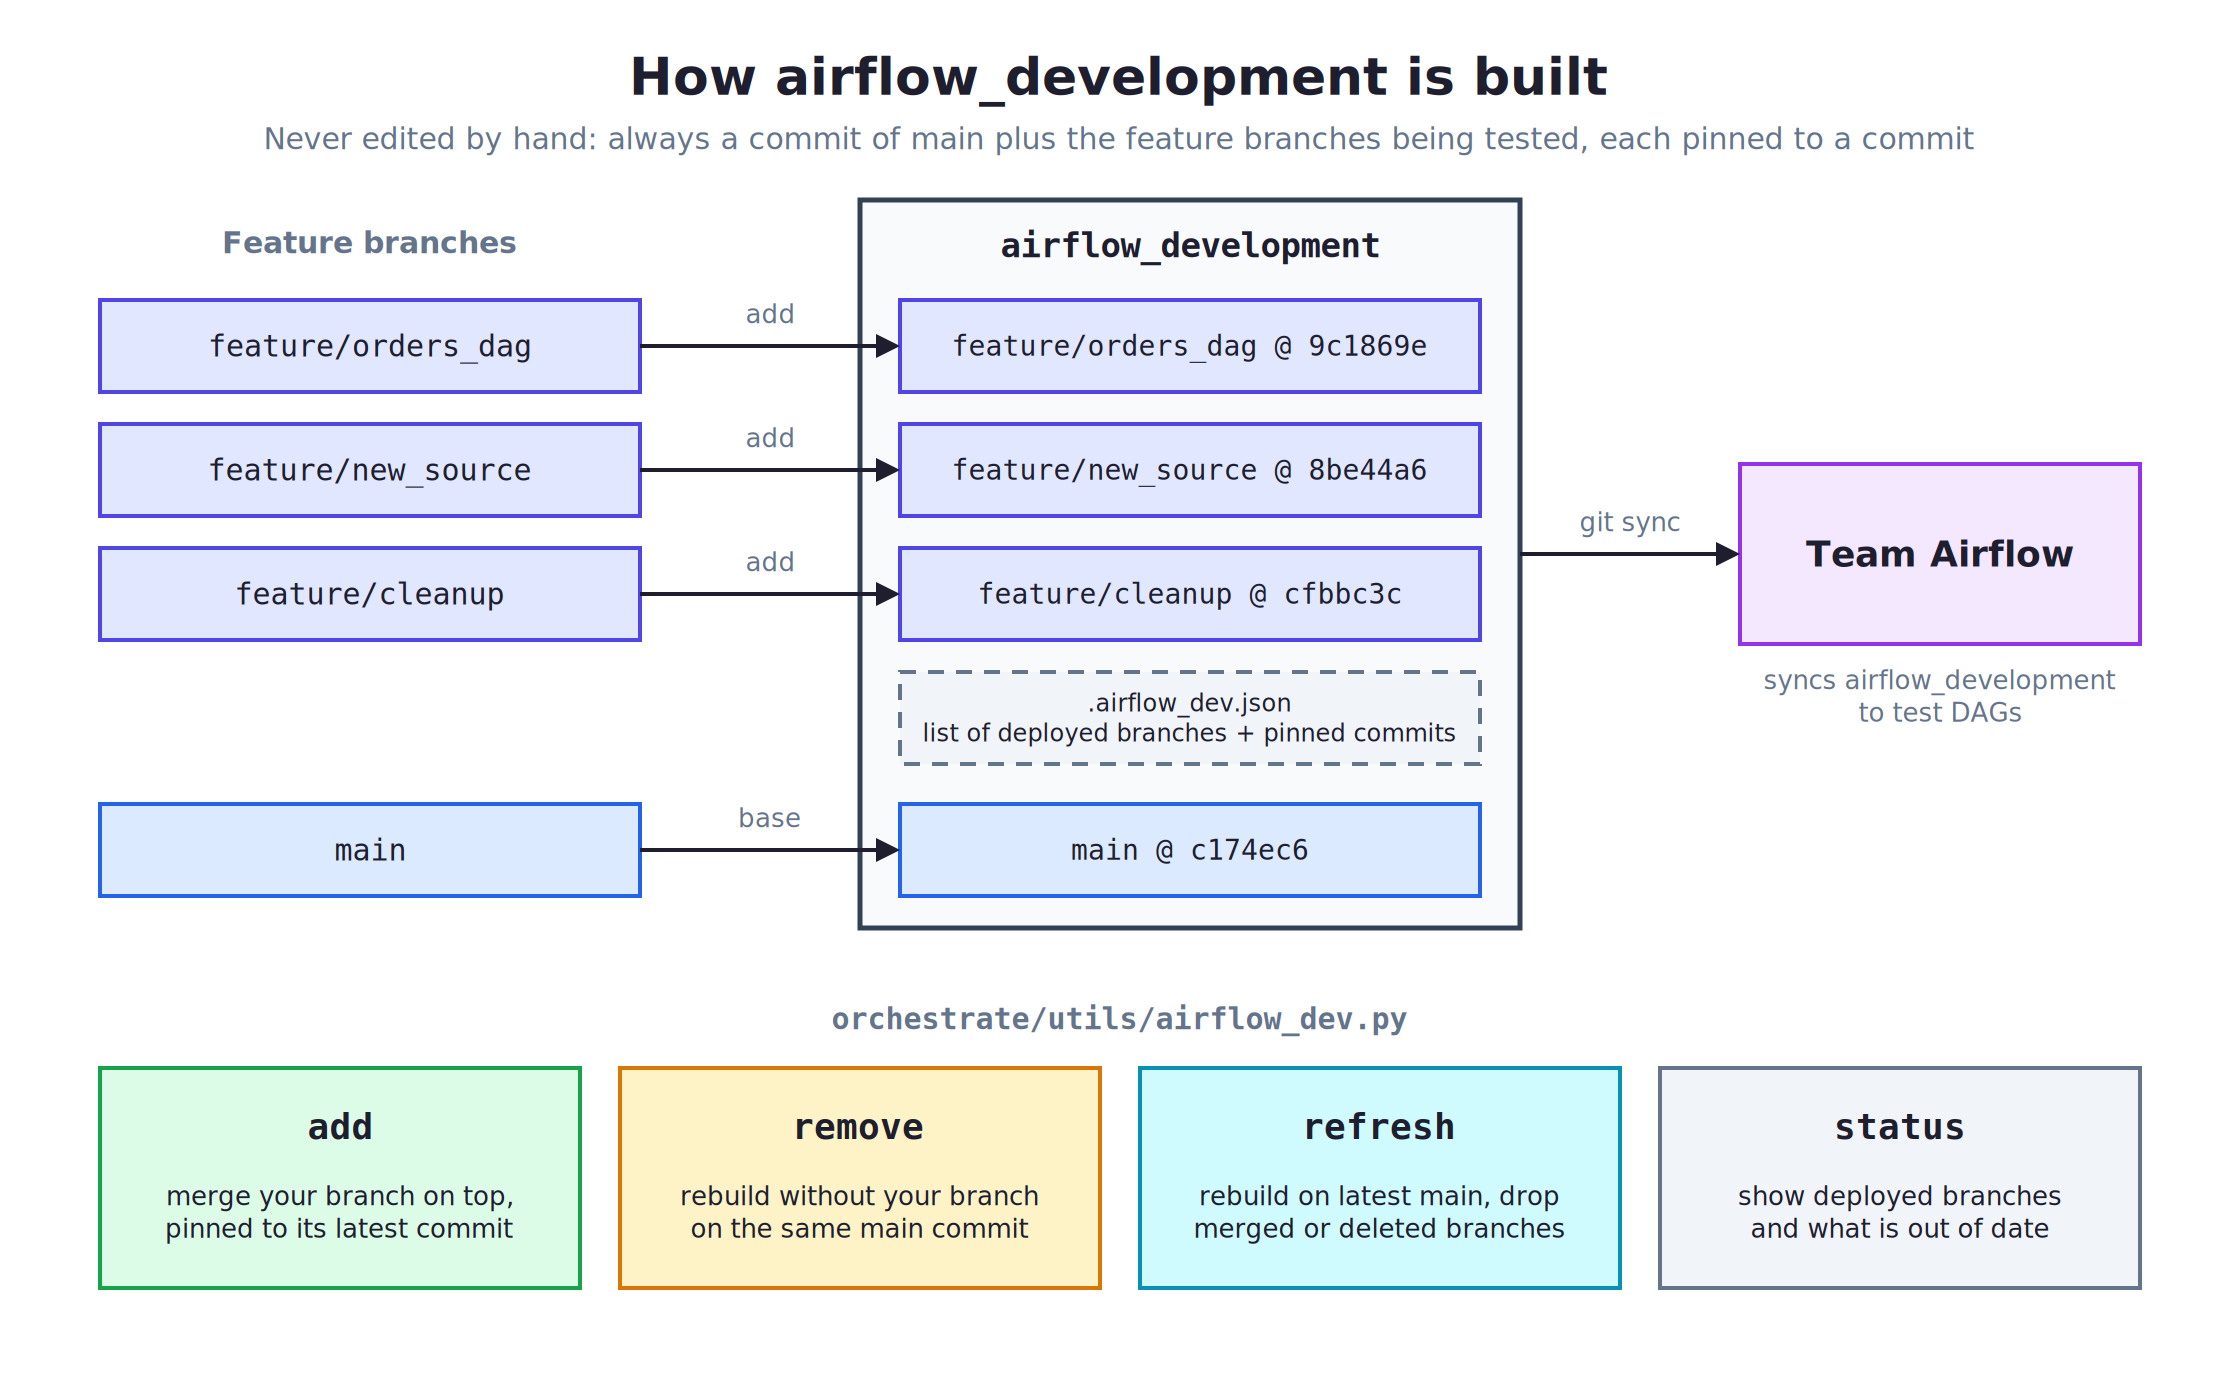
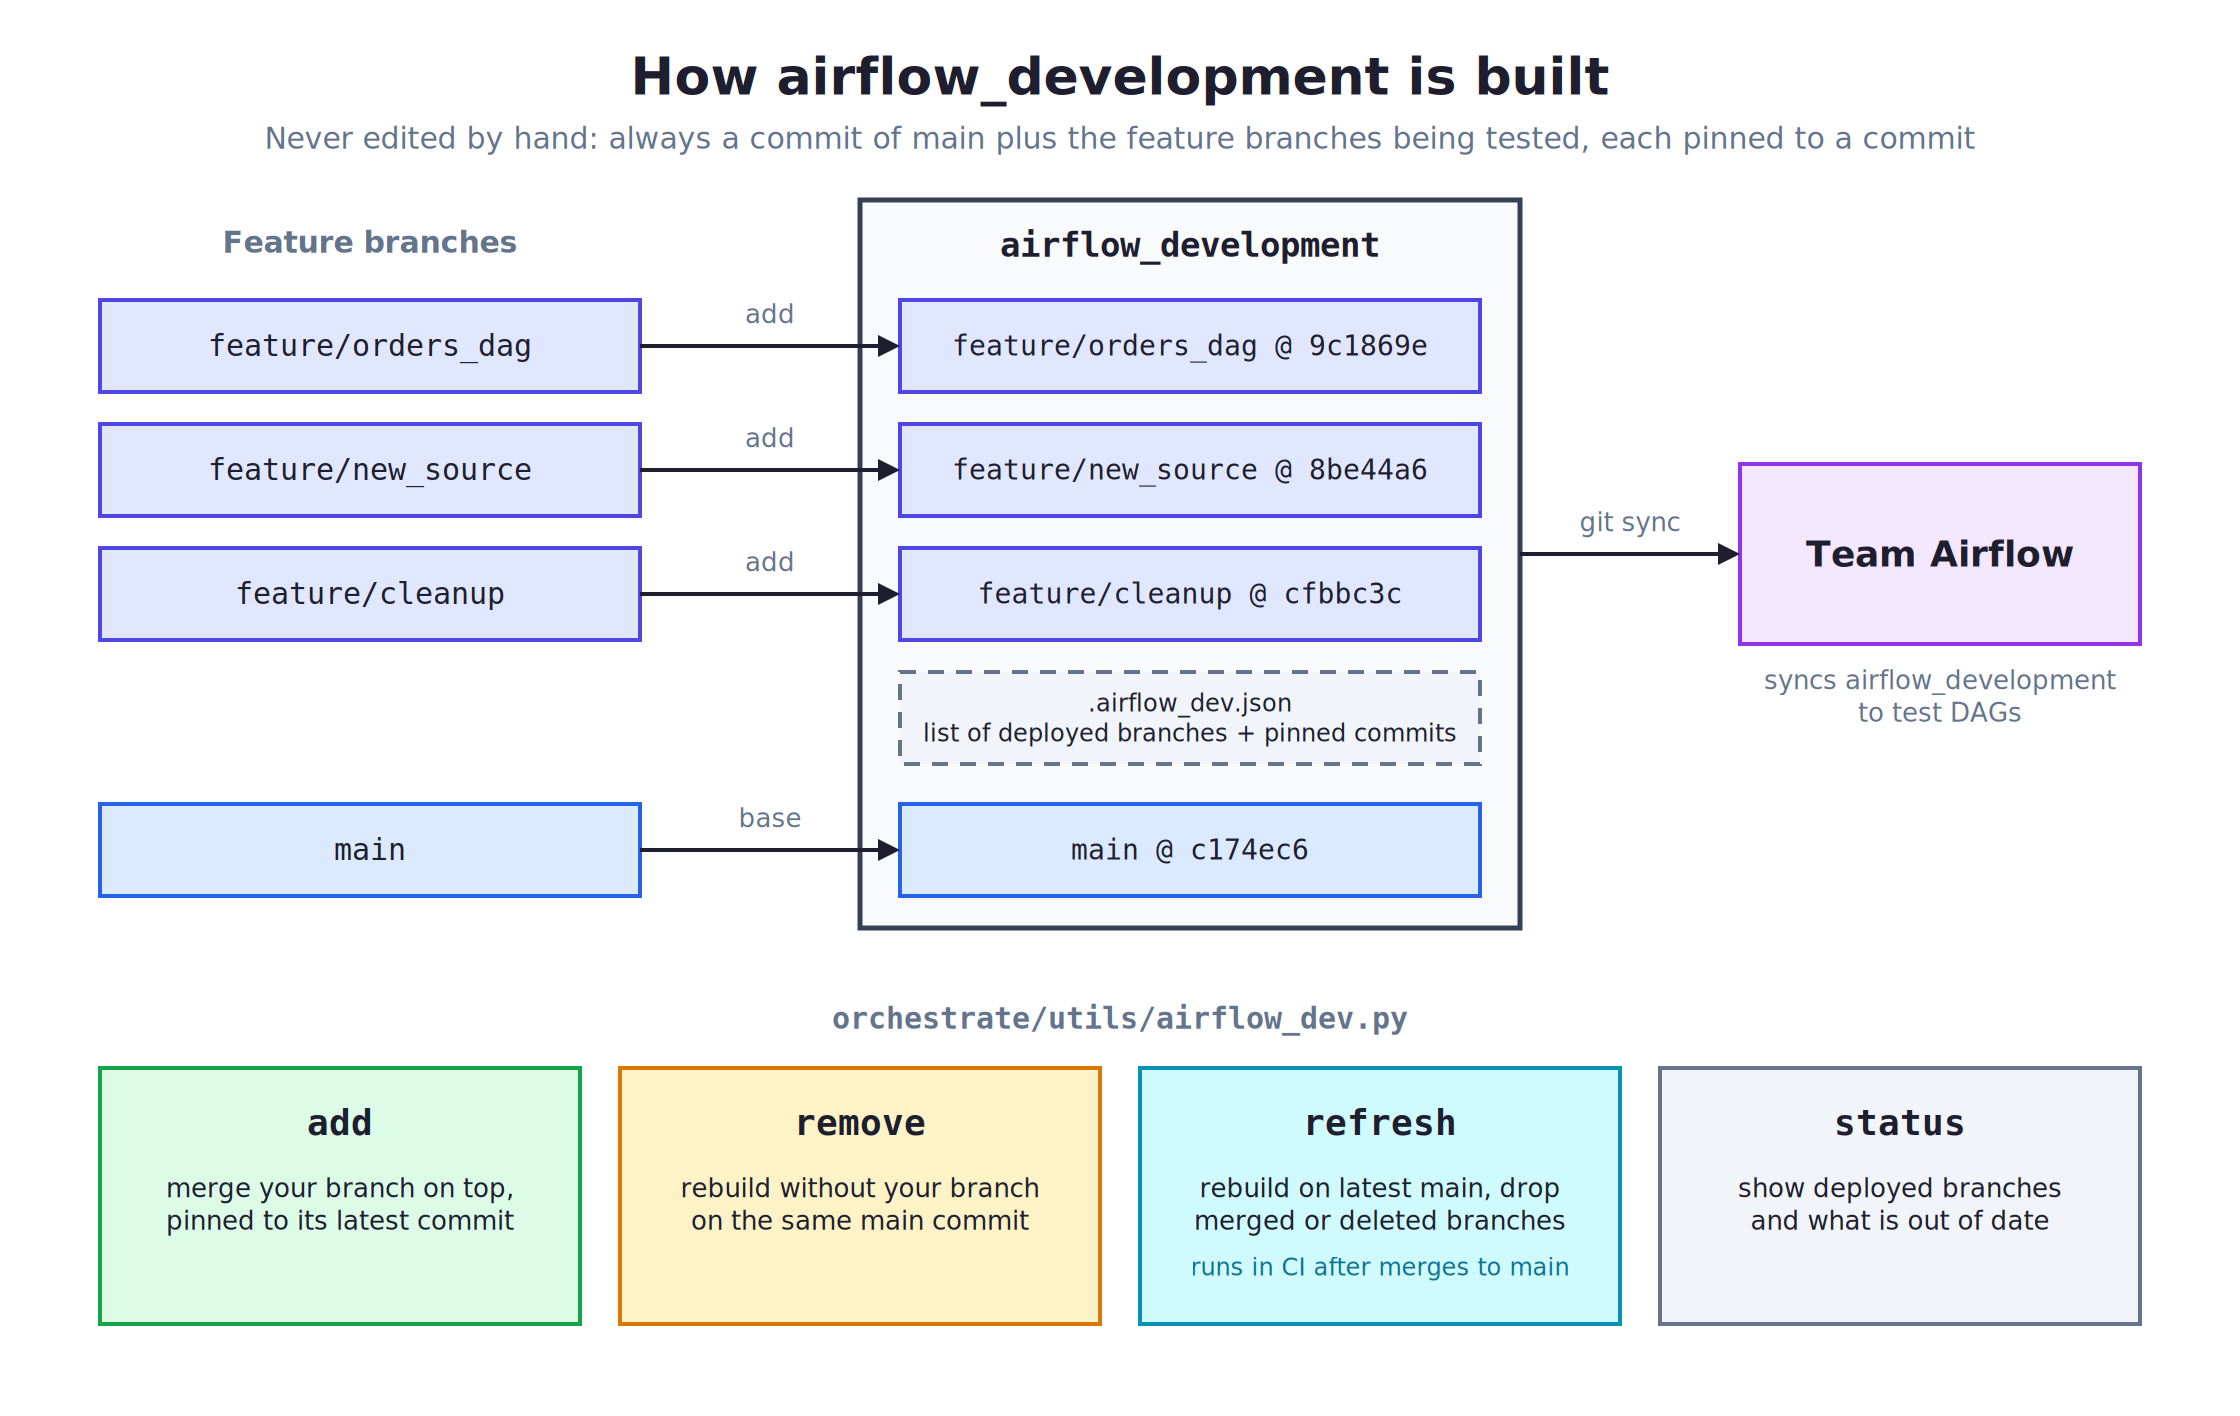
Refresh airflow_development automatically after merges to main (#315)
- airflow_dev.py: detect squash-merged branches as merged (refresh and
  status only checked commit ancestry, which never matches a squash merge),
  and emit GitHub warnings for branches removed by a conflicting rebuild
- 30_ workflow: add orchestrate/ to the triggers, add a changes job so
  orchestrate-only pushes skip the dbt deployment, and add a job that runs
  airflow_dev.py refresh after the deployment
- docs: describe the automatic refresh, what happens on conflicts, and the
  new limitations; update the diagram

diff --git a/orchestrate/utils/airflow_dev.py b/orchestrate/utils/airflow_dev.py
@@ -109,6 +109,25 @@ def is_ancestor(ancestor, descendant):
     return git_ok("merge-base", "--is-ancestor", ancestor, descendant)
 
 
+def is_merged(sha, base_sha):
+    """
+    True if sha adds nothing to base_sha. Covers normal merges (sha is an
+    ancestor) and squash or rebase merges, where the commits differ but merging
+    sha into base_sha would leave base_sha's tree unchanged.
+    """
+    if is_ancestor(sha, base_sha):
+        return True
+    result = subprocess.run(
+        ["git", "merge-tree", "--write-tree", base_sha, sha],
+        capture_output=True,
+        text=True,
+    )
+    if result.returncode != 0:
+        return False
+    merged_tree = result.stdout.splitlines()[0]
+    return merged_tree == git("rev-parse", f"{base_sha}^{{tree}}")
+
+
 def short(sha):
     return sha[:8] if sha else "-"
 
@@ -393,7 +412,7 @@ def cmd_refresh(args):
         for entry in registry["branches"]:
             if not remote_sha(entry["name"]):
                 dropped.append(f"{entry['name']} (branch deleted)")
-            elif is_ancestor(entry["sha"], base_sha):
+            elif is_merged(entry["sha"], base_sha):
                 dropped.append(f"{entry['name']} (merged into {BASE_BRANCH})")
             else:
                 keep.append(entry)
@@ -416,6 +435,9 @@ def report_skipped(skipped):
     print(f"⚠  These branches no longer merge cleanly and were removed from {DEV_BRANCH}:")
     for entry, files in skipped:
         print(f"   - {entry['name']} ({entry['user']}): {', '.join(files)}")
+        if os.environ.get("GITHUB_ACTIONS") == "true":
+            print(f"::warning title=Removed from {DEV_BRANCH}::{entry['name']} "
+                  f"({entry['user']}) conflicts on {', '.join(files)}")
     print(f"   Owners should update their branch from {BASE_BRANCH} and run 'add' again.")
 
 
@@ -474,7 +496,7 @@ def cmd_status(args):
         tip = remote_sha(e["name"])
         if not tip:
             note = "branch deleted"
-        elif is_ancestor(e["sha"], latest):
+        elif is_merged(e["sha"], latest):
             note = f"merged into {BASE_BRANCH}"
         elif tip != e["sha"]:
             note = "newer commits not deployed, run 'add' again"

diff --git a/docs/airflow_development_branch.md b/docs/airflow_development_branch.md
@@ -24,7 +24,7 @@ a commit of main  +  the feature branches currently being tested (each pinned to
 <!-- Source: diagrams/airflow-development-branch.excalidraw. Edit it with the Excalidraw VS Code extension and re-export the PNG. -->
 
 
-- The list of deployed branches is stored in `.airflow_dev.json` on `airflow_development` itself. No external service or CI is required.
+- The list of deployed branches is stored in `.airflow_dev.json` on `airflow_development` itself. No external service is required. CI only runs `refresh` after merges to `main` (see [Keeping it up to date](#keeping-it-up-to-date)).
 - **Each branch is pinned to a commit.** New commits on your branch are not deployed until you run `add` again, so other people's rebuilds never ship your half-finished work.
 - **You stay where you are.** The script works in a temporary git worktree, so your VS Code checkout and uncommitted changes are never touched.
 - **Several people can run it at the same time.** Pushes are guarded and retried when two people deploy at once.
@@ -64,7 +64,7 @@ orchestrate/utils/airflow_dev.py add
 orchestrate/utils/airflow_dev.py remove
 ```
 
-`airflow_development` is rebuilt without your branch, on the same `main` commit, so no one else is affected. Branches that are merged into `main` or deleted are also cleaned up automatically at the next `refresh`.
+`airflow_development` is rebuilt without your branch, on the same `main` commit, so no one else is affected. If you forget, your branch is removed automatically once it is merged into `main` (see [Keeping it up to date](#keeping-it-up-to-date)).
 
 ### Check what is deployed
 
@@ -81,6 +81,36 @@ airflow_development: based on main c174ec62 (3 commit(s) behind latest main)
 ```
 
 All commands accept a branch name, e.g. `add feature/other_branch`, to act on a branch other than the current one.
+
+## Keeping it up to date
+
+`add` and `remove` never move `airflow_development` to a newer `main`. Only `refresh` does that, and CI runs it for you: the `30: 🚀 Deploy to Production` workflow has a `Refresh airflow_development` job that runs after every push to `main` touching `transform/`, `automate/`, `orchestrate/` or `.github/workflows/`. On each run it:
+
+1. **Rebuilds on the latest `main`.** It runs after the dbt deployment, so it includes the version bump commit, and it runs even if the deployment failed or was skipped, because `main` has moved either way. Pushes that only change `orchestrate/` skip the dbt deployment and only refresh.
+2. **Drops branches that are merged into `main` or deleted.** Squash merges count as merged: a branch is treated as merged when merging it into `main` would change nothing.
+3. **Merges the remaining branches back in, in the order they were deployed.** Each one goes back in at the commit that was deployed, not its latest commit, so newer commits still need an `add`.
+
+Until the next refresh, `status` shows how far `airflow_development` is behind `main` and marks merged branches `merged into main`.
+
+### When a refresh removes your branch
+
+Your branch does not have to be up to date with `main` to survive a refresh. Git merges your deployed commit onto the new `main` and keeps changes from both. A conflict happens only when `main`, or a branch merged before yours, changed the same lines as your branch.
+
+When that happens:
+
+- Your branch is removed from `airflow_development`, so its DAGs disappear from Team Airflow. The other branches stay deployed and the job still succeeds.
+- Your branch itself is not touched.
+- The workflow run shows a warning naming your branch and the conflicting files. No one is notified directly, so check `status` if your DAG disappears.
+- When two deployed branches conflict with each other, the one deployed later is removed. Running `add` again moves a branch to the end of the order.
+
+To fix it, bring `main` into your branch, resolve the conflicts, and deploy again:
+
+```bash
+git pull origin main && git push
+orchestrate/utils/airflow_dev.py add
+```
+
+If the conflict is with another deployed branch, `add` names its owner (see below).
 
 ## When `add` refuses
 
@@ -121,7 +151,7 @@ Someone merged `airflow_development` into this branch. That would deploy other p
 
 ### One-time setup
 
-1. In your git provider, allow force pushes to `airflow_development`. The script rewrites the branch when it rebuilds it.
+1. In your git provider, allow force pushes to `airflow_development`, including from GitHub Actions (`GITHUB_TOKEN`). The script rewrites the branch when it rebuilds it.
 2. Make sure Team Airflow is configured to sync `airflow_development`.
 3. Initialize the branch. This replaces its current contents with `main`:
 
@@ -133,7 +163,9 @@ Someone merged `airflow_development` into this branch. That would deploy other p
 
 4. Tell users to stop pushing to `airflow_development` directly and to use `add` instead.
 
-### Periodic refresh (e.g. monthly)
+### Manual refresh
+
+CI refreshes the branch after merges to `main` (see [Keeping it up to date](#keeping-it-up-to-date)). Run it by hand after a manual push to `airflow_development`, or when you want a backup first:
 
 ```bash
 orchestrate/utils/airflow_dev.py refresh --backup
@@ -150,7 +182,7 @@ This rebuilds `airflow_development` on the latest `main`, re-applies every deplo
    Owners should update their branch from main and run 'add' again.
 ```
 
-`--backup` is optional and works the same as for `reset` (see below). It is useful here because branches that no longer merge cleanly are removed from `airflow_development`.
+`--backup` is optional and works the same as for `reset` (see below). It is useful here because branches that no longer merge cleanly are removed from `airflow_development`. In CI, removed branches also show up as warnings on the workflow run.
 
 ### Start over
 
@@ -174,6 +206,9 @@ The defaults match the standard Datacoves setup. Override them with environment 
 
 ## Limitations
 
-- **Squash merges aren't detected as merged.** A branch squash-merged into `main` is dropped at `refresh` only if its remote branch was deleted (enable automatic branch deletion after merge in your git provider), or if it no longer merges cleanly.
+- **Merging into a release branch can remove your DAGs early.** A branch is dropped at `refresh` when its remote branch is deleted. If feature branches are deleted automatically when they merge into a `release/*` branch, the next refresh removes their DAGs from Team Airflow before the release reaches `main`. To keep testing during a release, deploy the release branch: `add release/<name>`.
+- **A squash-merged branch with later changes on `main` may be reported as a conflict.** If `main` changed the same lines after the squash merge, the branch is removed as "no longer merges cleanly" instead of "merged into main". The result is the same: it is removed.
+- **Pushes outside those paths don't refresh.** A push to `main` that changes none of `transform/`, `automate/`, `orchestrate/` or `.github/workflows/` doesn't trigger the workflow. The next push that does, or a manual `refresh`, catches up.
+- **CI needs push rights.** The refresh job force-pushes `airflow_development` with `GITHUB_TOKEN`. If branch protection blocks it, the job fails and the branch stays where it was.
 - **A rebuild can change code under a running DAG.** `remove` and `refresh` rewrite `airflow_development`, so DAGs running in Team Airflow may pick up the new code mid-run.
 - **Nothing stops a manual push.** The script cannot prevent someone from pushing directly to `airflow_development`. If that happens, run `refresh` to get the branch back to a known state.
